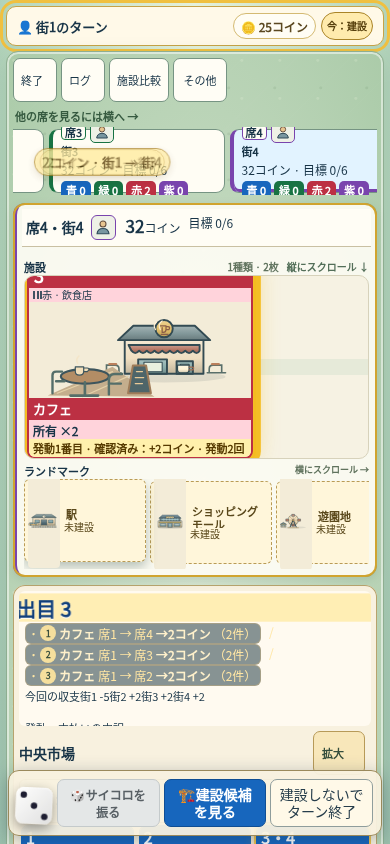
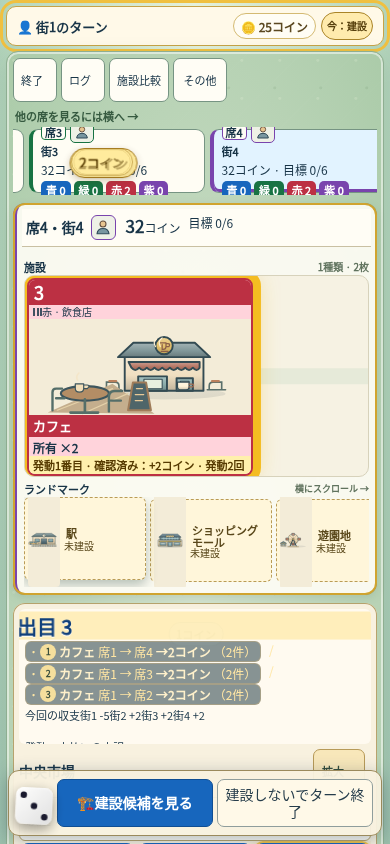
fix: 縦持ちの出目欠けと収益・操作表示の重なりを解消

diff --git a/tests/browser/cardboard-view.spec.js b/tests/browser/cardboard-view.spec.js
@@ -490,7 +490,7 @@ test('10人のカード盤面は自分・手番・選択相手を読める大き
     await expect(focusedCard).toHaveCSS('outline-width', '3px');
     await expect(page.locator('#cardboardRoster .cardboard-roster-self .cardboard-roster-self-badge')).toHaveText('あなた');
     await expect(page.locator('#cardboardRoster .cardboard-roster').first()).toHaveAttribute('aria-label',
-        '表示するプレイヤー。席が隠れている場合は横にスクロールして選べます。選ぶと街のカードを大きく表示');
+        '表示するプレイヤー。席が隠れている場合は横にスクロールして選べます。キーボードでは左右矢印、Home、Endで席を移動できます。選ぶと街のカードを大きく表示');
     const chips = page.locator('#cardboardRoster button').first().locator('.cardboard-color-count');
     await expect(chips).toHaveCount(4);
     await page.locator('#cardboardRoster [data-cardboard-player-index="9"]').click();

diff --git a/style.css b/style.css
@@ -12155,6 +12155,9 @@ html[data-design="cardboard"] body.accessibility-high-contrast #onlineWaitingPan
         line-height: 1.25;
         overflow-wrap: anywhere;
     }
+    html[data-design="cardboard"] #cardboardActionSlot:has(#btnSkip:not(:disabled)) #btnRoll:disabled {
+        display: none;
+    }
     html[data-design="cardboard"] #cardboardBoard.cardboard-focus-view #cardboardActionSlot #diceChoose .dice-choose button:not(:disabled) {
         min-height: 48px;
         font-size: 13px;
@@ -12291,8 +12294,8 @@ html[data-design="cardboard"] body.accessibility-high-contrast #onlineWaitingPan
         grid-auto-rows: max-content;
         align-content: start;
         justify-content: start;
-        flex: 0 0 184px;
-        height: 184px;
+        flex: 0 0 auto;
+        height: auto;
         min-height: 184px;
         max-height: none;
         overflow-x: auto;

diff --git a/js/cardBoardTransfers.js b/js/cardBoardTransfers.js
@@ -164,7 +164,7 @@ const CardBoardTransfers = (() => {
                 coin.dataset.flow = sourceIsBank ? 'incoming' : targetIsBank ? 'outgoing' : 'between';
                 if (!targetIsBank && route.amount >= 5) coin.dataset.large = 'true';
                 coin.setAttribute('aria-hidden', 'true');
-                coin.textContent = `${route.amount}コイン · ${route.fromName} → ${route.toName}`;
+                coin.textContent = `${route.amount}コイン`;
                 coin.title = route.title;
                 coin.style.left = `${from.x}px`;
                 coin.style.top = `${from.y}px`;

diff --git a/sw.js b/sw.js
@@ -2,7 +2,7 @@
  * Service Worker - オフラインキャッシュ
  * バージョンを上げるとキャッシュが更新される
  */
-const CACHE_NAME = 'machikoro-v319';
+const CACHE_NAME = 'machikoro-v320';
 
 const STATIC_ASSETS = [
   '/',
